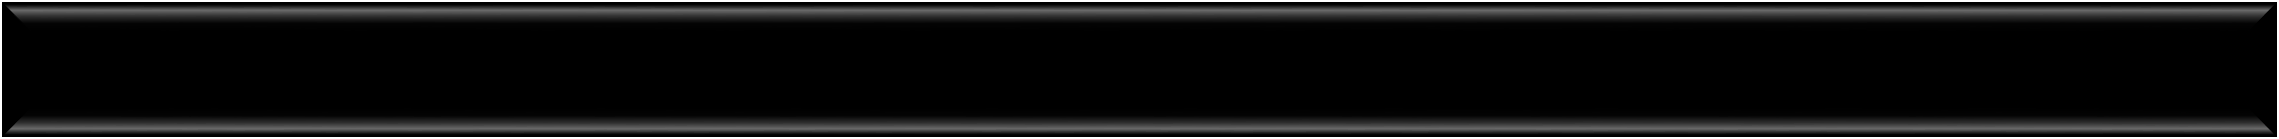
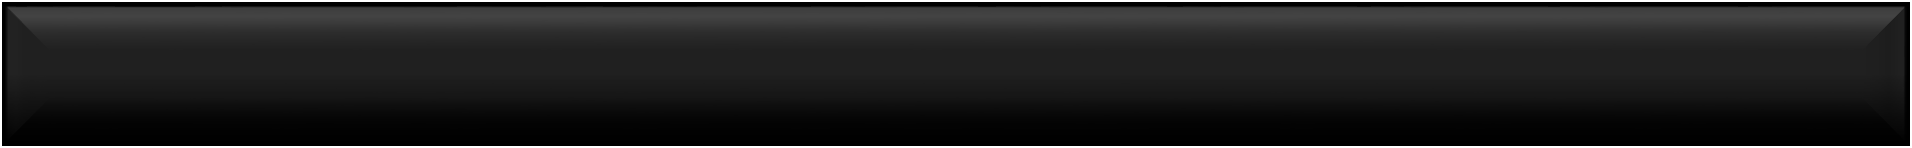
update

diff --git a/Personal JavaFX Snake/src/com/EudyContreras/Snake/ImageBanks/GameImageBank.java b/Personal JavaFX Snake/src/com/EudyContreras/Snake/ImageBanks/GameImageBank.java
@@ -30,7 +30,7 @@ public class GameImageBank {
 		 */
 		////////////////////////////////////////////////////////////////////////////////////////////////////////////////////////////////
 		public static final Image glowingCircleOne = ImageEffectUtility.preCreateGlowingCircle(Color.RED,1, 500, 0.8, 0, 0);
-		public static final Image glowingCircleTwo= ImageEffectUtility.preCreateAlternateGlowingCircle(Color.RED,1, 300, 0.7, 20);
+		public static final Image glowingCircleTwo= ImageEffectUtility.preCreateAlternateGlowingCircle(Color.RED,1, 300, 0.6, 20);
 		public static final Image glowingCircleThree= ImageEffectUtility.preCreateAlternateGlowingCircleTwo(Color.RED,1, 500, 0.8, 0, 0);
 		public static final Image fruit = ImageEffectUtility.precreatedLightedAndShadedImage("apple.png", GameSettings.GlOBAL_ILLUMINATION, 0,
 				150 / GameLoader.ResolutionScaleX, 192 / GameLoader.ResolutionScaleY);
@@ -115,7 +115,7 @@ public class GameImageBank {
 		public static final Image clipping_bar_v = ImageEffectUtility.GLOWING_RECTANGLE(Color.ORANGE, 0, 0.35, 100,GameSettings.HEIGHT*2);
 		public static final Image hud_bar_cover = new Image(ImageEffectUtility.loadResource("hud_bar_cover.png"));
 		public static final Image score_keeper_multiPlayer = new Image(ImageEffectUtility.loadResource("hud_bar_info_thin.png"));
-		public static final Image score_keeper_singlePlayer = new Image(ImageEffectUtility.loadResource("hud_bar_info_red.png"));
+		public static final Image score_keeper_singlePlayer = new Image(ImageEffectUtility.loadResource("hud_bar_info.png"));
 		public static final Image hud_timer = new Image(ImageEffectUtility.loadResource("hud_timer.png"));
 		public static final Image main_multiplayer_hud = new Image(ImageEffectUtility.loadResource("main_multiplayer_hud.png"));
 		public static final Image splash_screen = new Image(ImageEffectUtility.loadResource("SplashScreen5.png"));
@@ -159,8 +159,8 @@ public class GameImageBank {
 		 */
 		public static final Image apple = new Image(ImageEffectUtility.loadResource("apple.png"));
 		public static final Image apple_alt = new Image(ImageEffectUtility.loadResource("apple_alt.png"));
-		public static final Image classicSnakeHead = new Image(ImageEffectUtility.loadResource("classic_snake_head.png"));
-		public static final Image classicSnakeBody =ImageEffectUtility.precreatedLightedImage("classic_snake.png", GameSettings.GlOBAL_ILLUMINATION,GameSettings.GLOBAL_SPECULARITY, 134 / GameLoader.ResolutionScaleX, 128 / GameLoader.ResolutionScaleY);
+		public static final Image classicSnakeHead = ImageEffectUtility.preCreateShadedCircle(Color.LIME, GameSettings.GlOBAL_ILLUMINATION, GameSettings.GLOBAL_SPECULARITY, GameSettings.PLAYER_ONE_SIZE);
+		public static final Image classicSnakeBody = ImageEffectUtility.preCreateShadedCircle(Color.GREEN, GameSettings.GlOBAL_ILLUMINATION, GameSettings.GLOBAL_SPECULARITY, GameSettings.PLAYER_ONE_SIZE);
 		public static final Image classicSnakeBodyDebris = ImageEffectUtility.preCreateAlternateGlowingCircle(Color.LIMEGREEN,1, 50, 0.7, GameSettings.PLAYER_ONE_SIZE*.75);
 		public static final Image classicSnakeBodyBlurred = ImageEffectUtility.preCreateShadedBlurredCircle(Color.GREEN, GameSettings.GlOBAL_ILLUMINATION, GameSettings.GLOBAL_SPECULARITY, GameSettings.PLAYER_ONE_SIZE);
 		public static final Image transparentFill = ImageEffectUtility.preCreateCircle(Color.GREEN, GameSettings.PLAYER_ONE_SIZE*.75);
@@ -170,7 +170,7 @@ public class GameImageBank {
 
 
 		public static final String loadResource(String resource) {
-		return GameImageBank.class.getResource(resource).toExternalForm();
+		return GameImageBank2.class.getResource(resource).toExternalForm();
 	}
 
 }

diff --git a/Personal JavaFX Snake/src/com/EudyContreras/Snake/HUDElements/GameOverScreen.java b/Personal JavaFX Snake/src/com/EudyContreras/Snake/HUDElements/GameOverScreen.java
@@ -101,6 +101,10 @@ public class GameOverScreen {
 		baseGameBoard.setFitWidth(width);
 		baseGameBoard.setFitHeight(height);
 		baseGameBoard.setImage(boardImage);
+		confirmX = (float) (0 - baseGameBoard.getFitWidth() - 50);
+		confirmXTwo = (float) (0 - optionsBoard.getFitWidth() - 100);
+		baseGameBoard.setX(confirmX);
+		optionsBoard.setX(confirmXTwo);
 		baseGameBoard.setY(GameSettings.HEIGHT / 2 - mainGameBoard.getFitHeight() / 2);
 		scoreLayer.setPrefSize(GameSettings.WIDTH, GameSettings.HEIGHT);
 		optionsBoard.setFitWidth(GameManager.ScaleX(830));
@@ -309,10 +313,10 @@ public class GameOverScreen {
 	 */
 	public void gameOver(){
 		if (LEVEL_FAILED == false) {
-			removeBoard();
-			endGame();
+//			removeBoard();
 			game.getScoreKeeper().swipeDown();
 			game.getGameHud().showHUDCover();
+			endGame();
 			LEVEL_FAILED = true;
 			PlayerOne.ALLOW_FADE = false;
 			PlayerTwo.ALLOW_FADE = false;
@@ -480,6 +484,7 @@ public class GameOverScreen {
 					PlayerOne.LEVEL_COMPLETED = false;
 					PlayerTwo.LEVEL_COMPLETED = false;
 					ClassicSnake.LEVEL_COMPLETED = false;
+					removeBoard();
 					game.processGameInput();
 					center = false;
 				}
@@ -602,13 +607,19 @@ public class GameOverScreen {
 	 * all the UI elements of this board not visible
 	 */
 	public void removeBoard() {
+		baseGameBoard.setVisible(false);
 		mainGameBoard.setVisible(false);
 		optionsBoard.setVisible(false);
 		continue_btt.setVisible(false);
 		quitGame_btt.setVisible(false);
 		restart_btt.setVisible(false);
+		scoreScreen.hideScores();
 		game.getMainRoot().getChildren().remove(scoreLayer);
 		LEVEL_FAILED = false;
+		confirmX = (float) (0 - baseGameBoard.getFitWidth() - 50);
+		confirmXTwo = (float) (0 - optionsBoard.getFitWidth() - 100);
+		baseGameBoard.setX(confirmX);
+		optionsBoard.setX(confirmXTwo);
 		mainGameBoard.setX(0 - mainGameBoard.getFitWidth() - 50);
 		confirmX = 0;
 		acceleration = 6.0f;
@@ -622,19 +633,12 @@ public class GameOverScreen {
 	 */
 	private void resetBoard() {
 		game.getGameRoot().setEffect(null);
-		scoreScreen.hideScores();
 		confirmX = (float) (0 - baseGameBoard.getFitWidth() - 50);
 		confirmXTwo = (float) (0 - optionsBoard.getFitWidth() - 100);
 		baseGameBoard.setX(confirmX);
 		mainGameBoard.setOpacity(0);
 		baseGameBoard.setImage(GameImageBank.game_over_trans_board);
 		baseGameBoard.setY(GameSettings.HEIGHT / 2 - mainGameBoard.getFitHeight() / 2);
-		mainGameBoard.setVisible(true);
-		baseGameBoard.setVisible(true);
-		optionsBoard.setVisible(true);
-		continue_btt.setVisible(true);
-		quitGame_btt.setVisible(true);
-		restart_btt.setVisible(true);
 		game.getMainRoot().getChildren().add(scoreLayer);
 		center = true;
 		swipeRight = true;
@@ -645,6 +649,12 @@ public class GameOverScreen {
 		transitionOpacity = 0;
 		acceleration = 8.0f;
 		confirmXPosition = 0.002f;
+		mainGameBoard.setVisible(true);
+		baseGameBoard.setVisible(true);
+		optionsBoard.setVisible(true);
+		continue_btt.setVisible(true);
+		quitGame_btt.setVisible(true);
+		restart_btt.setVisible(true);
 	}
 	/**
 	 * Method which when called will

diff --git a/Personal JavaFX Snake/src/com/EudyContreras/Snake/HUDElements/ScoreKeeper.java b/Personal JavaFX Snake/src/com/EudyContreras/Snake/HUDElements/ScoreKeeper.java
@@ -1,6 +1,7 @@
 package com.EudyContreras.Snake.HUDElements;
 
 import com.EudyContreras.Snake.AbstractModels.AbstractHudElement;
+import com.EudyContreras.Snake.ClassicSnake.ClassicSnake;
 import com.EudyContreras.Snake.FrameWork.GameLoader;
 import com.EudyContreras.Snake.FrameWork.GameManager;
 import com.EudyContreras.Snake.FrameWork.GameSettings;
@@ -65,7 +66,7 @@ public class ScoreKeeper extends AbstractHudElement{
 		this.initialAmount = count;
 		this.countText = new Text();
 		this.apple = new ImageView(GameImageBank.apple_alt);
-		this.timer = new GameTimer(game, 175,53, 36, TimerStyle.ORANGE_STYLE);
+		this.timer = new GameTimer(game, 175,53, 36, TimerStyle.ORANGE_STYLE, Color.TRANSPARENT);
 		this.timer.setTimer(0, 0, 0, TimerType.countUp_timer);
 		this.board = new Rectangle();
 		this.apple.setPreserveRatio(true);
@@ -123,18 +124,18 @@ public class ScoreKeeper extends AbstractHudElement{
 
 	public void singlePlayerInfo(){
 		this.initialAmount = 0;
-		this.xTwo = GameSettings.WIDTH / 2 - GameManager.ScaleX( 800 / 2);
-		this.widthOne = GameManager.ScaleX(800);
+		this.xTwo = GameSettings.WIDTH / 2 - GameManager.ScaleX( 690 / 2);
+		this.widthOne = GameManager.ScaleX(690);
 		this.heightOne = GameManager.ScaleY(90);
 		this.board.setFill(singlePlayer);
 		this.board.setX(xTwo);
 		this.board.setWidth(widthOne);
 		this.board.setHeight(heightOne);
-		this.apple.setX(xTwo + GameManager.ScaleX(700)*0.58);
+		this.apple.setX(xTwo + GameManager.ScaleX(690)*0.52);
 		this.apple.setFitWidth(55 / GameLoader.ResolutionScaleX);
 		this.apple.setFitHeight(55 / GameLoader.ResolutionScaleY);
 		this.apple.setImage(GameImageBank.apple_alt);
-		this.countText.setX(xTwo + (widthOne*0.58));
+		this.countText.setX(xTwo + (widthOne*0.63));
 	}
 	/**
 	 * Method which updates all the UI elements
@@ -181,10 +182,10 @@ public class ScoreKeeper extends AbstractHudElement{
 				swipeSpeed = 0;
 			}
 		}
-		board.setY(yTwo);
+		this.board.setY(yTwo);
 		this.apple.setY(yOne + GameManager.ScaleY(7));
 		this.countText.setY(yOne+GameManager.ScaleY(48));
-		this.timer.setLocation(GameSettings.WIDTH/2 - timer.getWidth()/2-GameManager.ScaleX(80), yOne + GameManager.ScaleX(13));
+		this.timer.setLocation(GameSettings.WIDTH/2 - timer.getWidth()/2-GameManager.ScaleX(80), yOne + GameManager.ScaleX(5));
 	}
 	/**
 	 * Method which shows or hide the board
@@ -260,7 +261,7 @@ public class ScoreKeeper extends AbstractHudElement{
 			}
 		}
 		else {
-			if(!PlayerOne.DEAD && !PlayerTwo.DEAD && game.getStateID()!=GameStateID.GAME_MENU && game.getStateID()!=GameStateID.COUNT_DOWN){
+			if(!PlayerOne.DEAD && !PlayerTwo.DEAD && !ClassicSnake.DEAD && game.getStateID()!=GameStateID.GAME_MENU && game.getStateID()!=GameStateID.COUNT_DOWN){
 			swipeUp();
 			game.getGameHud().hideHUDCover();
 			}

diff --git a/Personal JavaFX Snake/src/com/EudyContreras/Snake/Utilities/ImageEffectUtility.java b/Personal JavaFX Snake/src/com/EudyContreras/Snake/Utilities/ImageEffectUtility.java
@@ -64,9 +64,9 @@ public class ImageEffectUtility {
 		resetInputeffects();
 		img = new Image(loadResource(path), width, height, true, true);
 		view.setImage(img);
-		light.setX(-180);
-		light.setY(310);
-		light.setZ(140);
+		light.setX(-100);
+		light.setY(200);
+		light.setZ(100);
 		lighting.setDiffuseConstant(diffused);
 		lighting.setSpecularConstant(specularMap);
 		lighting.setSurfaceScale(10.0);
@@ -165,9 +165,9 @@ public class ImageEffectUtility {
 		resetInputeffects();
 		img = new Image(loadResource(path), width, height, true, true);
 		view.setImage(img);
-		light.setX(-180);
-		light.setY(310);
-		light.setZ(140);
+		light.setX(-200);
+		light.setY(300);
+		light.setZ(150);
 		lighting.setDiffuseConstant(diffused);
 		lighting.setSpecularConstant(specularMap);
 		lighting.setSurfaceScale(10.0);
@@ -362,7 +362,7 @@ public class ImageEffectUtility {
 		borderGlow.setColor(color);
 		borderGlow.setWidth(depth);
 		borderGlow.setHeight(depth);
-		borderGlow.setBlurType(BlurType.TWO_PASS_BOX);
+		borderGlow.setBlurType(BlurType.THREE_PASS_BOX);
 		circle.setOpacity(opacity);
 		circle.setEffect(borderGlow);
 		img = ImageEffectUtility.createImage(circle);
@@ -422,9 +422,9 @@ public class ImageEffectUtility {
 		lighting.setSurfaceScale(10.0);
 		lighting.setLight(light);
 		shadow.setColor(Color.rgb(0, 0, 0, 0.5));
-		shadow.setRadius(4/(GameManager.ScaleX_ScaleY));
-		shadow.setOffsetX(GameManager.ScaleX(15));
-		shadow.setOffsetY(GameManager.ScaleY(-10));
+		shadow.setRadius(4);
+		shadow.setOffsetX(15);
+		shadow.setOffsetY(-10);
 		blur.setIterations(2);
 		blur.setWidth(10);
 		blur.setHeight(10);

diff --git a/Personal JavaFX Snake/src/com/EudyContreras/Snake/HUDElements/GameTimer.java b/Personal JavaFX Snake/src/com/EudyContreras/Snake/HUDElements/GameTimer.java
@@ -37,12 +37,12 @@ public class GameTimer {
 	private int hours = 00;
 
 
-	public GameTimer(GameManager game, double width, double height, double size, TimerStyle style) {
+	public GameTimer(GameManager game, double width, double height, double size, TimerStyle style, Color background) {
 		this.size = GameManager.ScaleX_Y(size);
 		this.timerText = new Text();
 		this.timerBox = new StackPane();
 		this.timerBox.setPrefSize(GameManager.ScaleX(width), GameManager.ScaleY(height));
-		this.timerBox.setBackground(new Background(new BackgroundFill(Color.BLACK, null, null)));
+		this.timerBox.setBackground(new Background(new BackgroundFill(background, null, null)));
 		this.timerBox.getChildren().add(timerText);
 		setupText(style);
 	}

diff --git a/Personal JavaFX Snake/src/com/EudyContreras/Snake/GameObjects/ClassicSnakeFood.java b/Personal JavaFX Snake/src/com/EudyContreras/Snake/GameObjects/ClassicSnakeFood.java
@@ -328,7 +328,7 @@ public class ClassicSnakeFood extends AbstractObject {
 	public void blowUp() {
 		for (int i = 0; i < GameSettings.MAX_DEBRIS_AMOUNT*.8; i++) {
 			if (GameSettings.ADD_VARIATION) {
-				particleSize = Math.random()*(100- 25 +1)+25;
+				particleSize = Math.random()*(160- 50 +1)+50;
 				particleLife = Math.random()*(0.2 - 0.1+1)+0.1;
 				game.getDebrisManager().addParticle(new GlowParticle(game,GameImageBank.glowingCircleTwo, particleLife,particleSize,(double) (x+width/2), (double) (y+height/2),  new Point2D((Math.random()*(12 - -12 + 1) + -12), Math.random()*(12 - -12 + 1) + -12)));
 			}

diff --git a/Personal JavaFX Snake/src/com/EudyContreras/Snake/GameObjects/LevelBounds.java b/Personal JavaFX Snake/src/com/EudyContreras/Snake/GameObjects/LevelBounds.java
@@ -75,10 +75,10 @@ public class LevelBounds extends AbstractTile {
 		view.setFitHeight(GameManager.ScaleY(view.getImage().getHeight()));
 	}
 	public void displayBounds(){
-		this.layer.getChildren().add(leftBound);
-		this.layer.getChildren().add(rightBound);
-		this.layer.getChildren().add(topBound);
-		this.layer.getChildren().add(bottomBound);
+//		this.layer.getChildren().add(leftBound);
+//		this.layer.getChildren().add(rightBound);
+//		this.layer.getChildren().add(topBound);
+//		this.layer.getChildren().add(bottomBound);
 	}
 	public void showBounds(boolean state){
 		this.leftBound.setVisible(state);

diff --git a/Personal JavaFX Snake/src/com/EudyContreras/Snake/HUDElements/GameHud.java b/Personal JavaFX Snake/src/com/EudyContreras/Snake/HUDElements/GameHud.java
@@ -122,8 +122,6 @@ public class GameHud {
 		game.getHealthBarTwo().hidePlayerHead(true);
 		game.getHealthBarOne().moveLeft();
 		game.getHealthBarTwo().moveRight();
-		game.getScoreBoardOne().moveLeft();
-		game.getScoreBoardTwo().moveRight();
 		hideHUDCover = false;
 		showHUDCover = true;
 	}
@@ -136,8 +134,6 @@ public class GameHud {
 		game.getHealthBarTwo().hidePlayerHead(false);
 		game.getHealthBarOne().moveRight();
 		game.getHealthBarTwo().moveLeft();
-		game.getScoreBoardOne().moveRight();
-		game.getScoreBoardTwo().moveLeft();
 		showHUDCover = false;
 		hideHUDCover = true;
 	}

diff --git a/Personal JavaFX Snake/src/com/EudyContreras/Snake/HUDElements/HealthBarOne.java b/Personal JavaFX Snake/src/com/EudyContreras/Snake/HUDElements/HealthBarOne.java
@@ -108,19 +108,17 @@ public class HealthBarOne {
 		if(moveX>0){
 			moveX = 0;
 		}
+		game.getEnergyBarOne().setMoveX(moveX);
+		game.getScoreBoardOne().setMoveX(moveX);
 	}
 	public void moveLeft(){
 		velX = GameManager.ScaleX(-10);
-		game.getEnergyBarOne().moveLeft();
 	}
 	public void moveRight(){
 		velX = GameManager.ScaleX(10);
-		game.getEnergyBarOne().moveRight();
 	}
 	public void stopMoving(){
 		this.velX = 0;
-		this.game.getEnergyBarOne().stopMoving();
-		this.game.getScoreBoardOne().stopMoving();
 	}
 	/**
 	 * Method which when called will reduce the health

diff --git a/Personal JavaFX Snake/src/com/EudyContreras/Snake/HUDElements/HealthBarTwo.java b/Personal JavaFX Snake/src/com/EudyContreras/Snake/HUDElements/HealthBarTwo.java
@@ -110,19 +110,17 @@ public class HealthBarTwo {
 		if(moveX<0){
 			moveX = 0;
 		}
+		game.getEnergyBarTwo().setMoveX(moveX);
+		game.getScoreBoardTwo().setMoveX(moveX);
 	}
 	public void moveLeft(){
 		velX = GameManager.ScaleX(-10);
-		game.getEnergyBarTwo().moveLeft();
 	}
 	public void moveRight(){
 		velX = GameManager.ScaleX(10);
-		game.getEnergyBarTwo().moveRight();
 	}
 	public void stopMoving(){
 		this.velX = 0;
-		this.game.getEnergyBarTwo().stopMoving();
-		this.game.getScoreBoardTwo().stopMoving();
 	}
 	/**
 	 * Method which when called will reduce the health

diff --git a/Personal JavaFX Snake/src/com/EudyContreras/Snake/HUDElements/EnergyBarOne.java b/Personal JavaFX Snake/src/com/EudyContreras/Snake/HUDElements/EnergyBarOne.java
@@ -83,6 +83,9 @@ public class EnergyBarOne {
 	public void stopMoving(){
 		this.velX = 0;
 	}
+	public void setMoveX(double moveX){
+		this.moveX = moveX;
+	}
 	/**
 	 * Method which depletes the energy of the player by a constant
 	 * percentage. This method also determines what action to take

diff --git a/Personal JavaFX Snake/src/com/EudyContreras/Snake/HUDElements/EnergyBarTwo.java b/Personal JavaFX Snake/src/com/EudyContreras/Snake/HUDElements/EnergyBarTwo.java
@@ -85,6 +85,9 @@ public class EnergyBarTwo {
 	public void stopMoving(){
 		this.velX = 0;
 	}
+	public void setMoveX(double moveX){
+		this.moveX = moveX;
+	}
 	/**
 	 * Method which depletes the energy of the player by a constant
 	 * percentage. This method also determines what action to take
